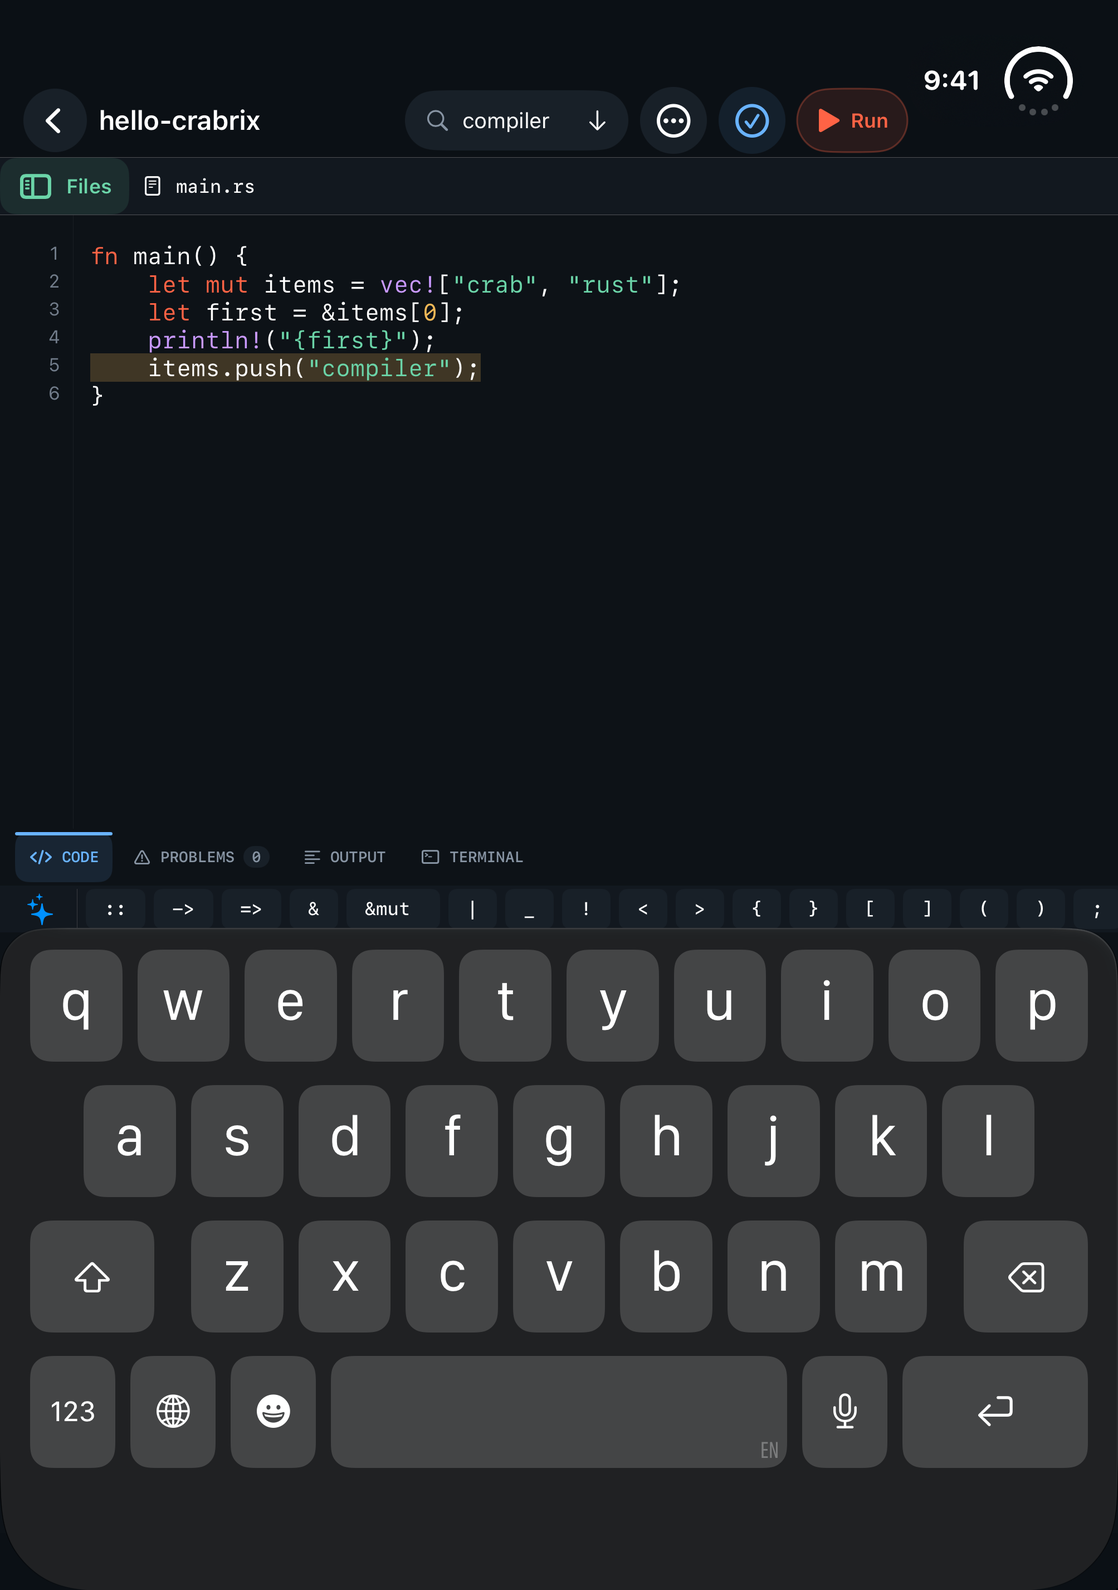
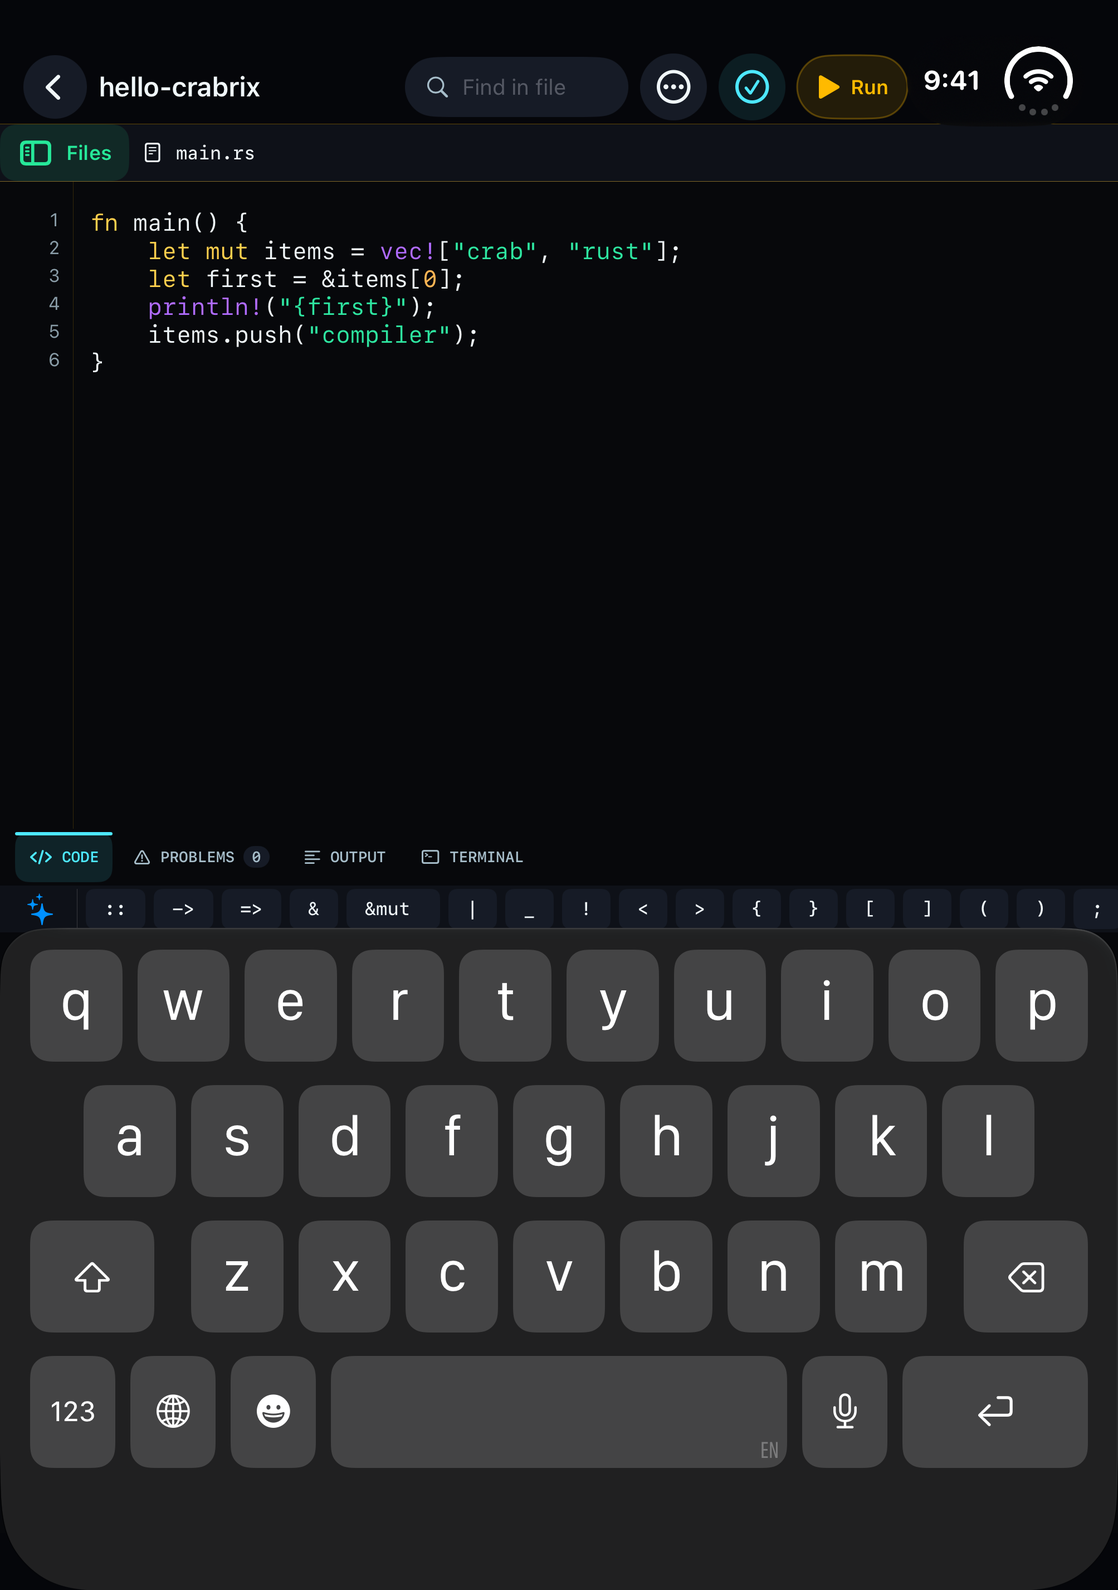
Polish Duo workspace layout and refresh site capture

diff --git a/Crabrix/UI/ContentView.swift b/Crabrix/UI/ContentView.swift
@@ -105,7 +105,7 @@ struct ContentView: View {
     @State private var isDiagnosticHelpPresented = false
     @State private var selectedBuildDockTab: BuildDockTab =
         ProcessInfo.processInfo.arguments.contains("--crabrix-auto-terminal") ? .terminal : .code
-    @State private var tabletopFoldGlobalY: CGFloat?
+    @State private var tabletopTabsGlobalY: CGFloat?
     @State private var learningPath: [LearningRoute] = []
     @State private var editorCursorOffset = 0
     /// What the last successful run was scored on, shown in the build dock.
@@ -128,7 +128,7 @@ struct ContentView: View {
     var body: some View {
         GeometryReader { geometry in
             let tabletop = AdaptiveFold.horizontal(in: geometry) != nil
-                || tabletopFoldGlobalY != nil
+                || tabletopTabsGlobalY != nil
             tabContent(tabletop: tabletop)
                 .toolbar(tabletop && isWorkspaceOpen ? .hidden : .visible, for: .tabBar)
         }
@@ -142,7 +142,7 @@ struct ContentView: View {
                         .toolbar(tabletop ? .hidden : .visible, for: .tabBar)
                         .ignoresSafeArea(tabletop ? .container : [], edges: .top)
                         .ignoresSafeArea(
-                            tabletopFoldGlobalY == nil ? [] : .keyboard,
+                            tabletopTabsGlobalY == nil ? [] : .keyboard,
                             edges: .bottom
                         )
                 } else {
@@ -617,7 +617,7 @@ struct ContentView: View {
                 selectedFile: model.selectedFile,
                 isProjectSidebarCollapsed: fixedSidebar ? false : !isCompactProjectDrawerPresented,
                 showsProjectSidebarToggle: !fixedSidebar,
-                showsEnvironmentBar: tabletopFoldGlobalY == nil,
+                showsEnvironmentBar: tabletopTabsGlobalY == nil,
                 onSelectFile: selectEditorFile,
                 onToggleProjectSidebar: {
                     if fixedSidebar {
@@ -675,12 +675,12 @@ struct ContentView: View {
                 navigationTarget: editorNavigationTarget,
                 assistantUsesAppleIntelligence: appleIntelligenceCompletion
                     && RustCompletionSupport.isAppleIntelligenceAvailable,
-                tabletopCodeTabActive: tabletopFoldGlobalY == nil
+                tabletopCodeTabActive: tabletopTabsGlobalY == nil
                     ? nil : selectedBuildDockTab == .code,
                 keyboardBridge: editorKeyboard,
                 onRequestCompletion: requestEditorAssistant,
                 onEditorFocus: {
-                    if tabletopFoldGlobalY != nil {
+                    if tabletopTabsGlobalY != nil {
                         selectedBuildDockTab = .code
                     }
                 }
@@ -734,8 +734,8 @@ struct ContentView: View {
                 AppHeader(
                     isPhone: UIDevice.current.userInterfaceIdiom == .phone,
                     regularTablet: horizontalSizeClass == .regular && UIDevice.current.userInterfaceIdiom != .phone,
-                    dense: tabletopFold != nil || tabletopFoldGlobalY != nil,
-                    showsTopNavigation: tabletopFold != nil || tabletopFoldGlobalY != nil,
+                    dense: tabletopFold != nil || tabletopTabsGlobalY != nil,
+                    showsTopNavigation: tabletopFold != nil || tabletopTabsGlobalY != nil,
                     headerWidth: workspace.size.width,
                     projectName: model.projectName,
                     searchQuery: $editorSearchQuery,
@@ -759,9 +759,11 @@ struct ContentView: View {
                 if model.projectTransfer.isWorking || model.projectTransfer.isFailure {
                     ProjectTransferStrip(transfer: model.projectTransfer)
                 }
-                Divider().overlay(CrabrixTheme.border)
+                Rectangle()
+                    .fill(CrabrixTheme.border)
+                    .frame(height: 1 / UIScreen.main.scale)
 
-                if fixedSidebar && tabletopFold == nil && tabletopFoldGlobalY == nil {
+                if fixedSidebar && tabletopFold == nil && tabletopTabsGlobalY == nil {
                     HStack(spacing: 0) {
                         ProjectSidebar(
                                 projectName: model.projectName,
@@ -820,15 +822,24 @@ struct ContentView: View {
                             .frame(minWidth: bookFold == nil ? 340 : 0)
                     }
                 } else {
-                    compactBuildWorkspace(tabletopFoldGlobalY: tabletopFoldGlobalY)
+                    compactBuildWorkspace(tabletopTabsGlobalY: tabletopTabsGlobalY)
                 }
             }
-            // Tabletop has its own tall status region. Reclaim part of the
-            // unused gap while keeping the controls below the status glyphs.
-            .padding(.top, tabletopFold == nil ? 0 : 50)
+            // Keep the workspace toolbar level with the native My Projects
+            // navigation bar; the status glyphs remain in the trailing space.
+            .padding(.top, tabletopFold == nil ? 0 : 30)
+            .background(CrabrixTheme.background)
         }
-        .onPreferenceChange(TabletopFoldGlobalYPreferenceKey.self) { globalY in
-            tabletopFoldGlobalY = globalY
+        .onPreferenceChange(TabletopTabsGlobalYPreferenceKey.self) { globalY in
+            let enteringTabletop = tabletopTabsGlobalY == nil && globalY != nil
+            tabletopTabsGlobalY = globalY
+            if enteringTabletop && selectedBuildDockTab == .code {
+                DispatchQueue.main.asyncAfter(deadline: .now() + 0.2) {
+                    if selectedBuildDockTab == .code {
+                        editorKeyboard.focusEditor()
+                    }
+                }
+            }
         }
         }
     }
@@ -843,11 +854,11 @@ struct ContentView: View {
         }
     }
 
-    private func compactBuildWorkspace(tabletopFoldGlobalY: CGFloat?) -> some View {
+    private func compactBuildWorkspace(tabletopTabsGlobalY: CGFloat?) -> some View {
         GeometryReader { geometry in
-            // In tabletop pose the lower display is the typing and output
-            // surface. Keep the file drawer on the upper display only.
-            let drawerHeight = tabletopFoldGlobalY.map {
+            // In tabletop pose the drawer fills the upper display down to the
+            // Code, Problems, Output and Terminal tabs, without a dead strip.
+            let drawerHeight = tabletopTabsGlobalY.map {
                 max(160, min($0 - geometry.frame(in: .global).minY, geometry.size.height))
             } ?? geometry.size.height
             ZStack(alignment: .topLeading) {
@@ -1220,7 +1231,7 @@ private struct AppHeader: View {
                     Image(systemName: "chevron.left")
                         .font(.system(size: 17, weight: .semibold))
                         .frame(width: 38, height: 38)
-                        .background(CrabrixTheme.raised, in: CrabrixControlShape(classic: .circle))
+                        .background(CrabrixTheme.raised, in: Circle())
                 }
                 .buttonStyle(.plain)
                 .accessibilityLabel("Back to Projects")
@@ -1319,7 +1330,7 @@ private struct AppHeader: View {
         // The status glyphs share the header row in laptop posture.
         .padding(.trailing, showsTopNavigation ? 112 : 0)
         .frame(height: dense ? 44 : 58)
-        .background(CrabrixTheme.background.opacity(0.97))
+        .background(CrabrixTheme.background)
     }
 
     private var tabletopProjectMenu: some View {
@@ -1331,7 +1342,7 @@ private struct AppHeader: View {
                 .font(.system(size: 20, weight: .medium))
                 .foregroundStyle(CrabrixTheme.primary)
                 .frame(width: 40, height: 40)
-                .background(CrabrixTheme.raised, in: CrabrixControlShape(classic: .circle))
+                .background(CrabrixTheme.raised, in: Circle())
         }
         .disabled(transfer.isWorking)
         .accessibilityLabel("Project menu")
@@ -1343,7 +1354,14 @@ private struct AppHeader: View {
                 .font(.system(size: 20, weight: .medium))
                 .foregroundStyle(CrabrixTheme.blue)
                 .frame(width: 40, height: 40)
-                .background(CrabrixTheme.blue.opacity(0.1), in: CrabrixControlShape(classic: .capsule))
+                .background {
+                    if showsTopNavigation {
+                        Circle().fill(CrabrixTheme.blue.opacity(0.1))
+                    } else {
+                        CrabrixControlShape(classic: .capsule)
+                            .fill(CrabrixTheme.blue.opacity(0.1))
+                    }
+                }
         }
         .buttonStyle(.plain)
         .disabled(activity != .idle || !canRun)
@@ -1366,10 +1384,21 @@ private struct AppHeader: View {
             .foregroundStyle(CrabrixTheme.coral)
             .padding(.horizontal, 11)
             .frame(minHeight: 38)
-            .background(CrabrixTheme.coral.opacity(0.12), in: CrabrixControlShape(classic: .capsule))
+            .background {
+                if showsTopNavigation {
+                    Capsule().fill(CrabrixTheme.coral.opacity(0.12))
+                } else {
+                    CrabrixControlShape(classic: .capsule)
+                        .fill(CrabrixTheme.coral.opacity(0.12))
+                }
+            }
             .overlay {
-                CrabrixControlShape(classic: .capsule)
-                    .stroke(CrabrixTheme.coral.opacity(0.3))
+                if showsTopNavigation {
+                    Capsule().stroke(CrabrixTheme.coral.opacity(0.3))
+                } else {
+                    CrabrixControlShape(classic: .capsule)
+                        .stroke(CrabrixTheme.coral.opacity(0.3))
+                }
             }
         }
         .buttonStyle(.plain)

diff --git a/Crabrix/UI/BuildDockView.swift b/Crabrix/UI/BuildDockView.swift
@@ -139,6 +139,7 @@ struct BuildDockView<CodeContent: View>: View {
                             usesAppleIntelligence: assistantUsesAppleIntelligence,
                             onComplete: onRequestCompletion
                         )
+                        .padding(.bottom, 6)
                         Spacer(minLength: 0)
                     } else if selectedTab == .terminal {
                         Spacer(minLength: 0)
@@ -154,8 +155,8 @@ struct BuildDockView<CodeContent: View>: View {
             .background(CrabrixTheme.editor)
             .frame(maxWidth: .infinity, maxHeight: .infinity)
             .preference(
-                key: TabletopFoldGlobalYPreferenceKey.self,
-                value: fold.map { geometry.frame(in: .global).minY + $0.minY }
+                key: TabletopTabsGlobalYPreferenceKey.self,
+                value: fold.map { geometry.frame(in: .global).minY + $0.maxY - (selectedTab == .terminal ? 34 : 0) }
             )
         }
         .frame(maxWidth: .infinity, maxHeight: .infinity)
@@ -167,8 +168,13 @@ struct BuildDockView<CodeContent: View>: View {
         return HStack(spacing: 4) {
             ForEach(tabs) { tab in
                 Button {
-                    if tab != .code { keyboardBridge.dismissKeyboard() }
+                    if tab == .problems || tab == .output {
+                        keyboardBridge.dismissKeyboard()
+                    }
                     selectedTab = tab
+                    if tab == .code {
+                        keyboardBridge.focusEditor()
+                    }
                 } label: {
                     HStack(spacing: 5) {
                         Image(systemName: tab.systemImage)
@@ -308,6 +314,7 @@ private struct ProblemsDockContent: View {
     let onOpenDiagnosticAdvisor: () -> Void
 
     var body: some View {
+        GeometryReader { available in
         ScrollView {
             if let diagnostics = result?.diagnostics, !diagnostics.isEmpty {
                 LazyVStack(alignment: .leading, spacing: 7) {
@@ -388,7 +395,10 @@ private struct ProblemsDockContent: View {
                     description: Text("Compiler diagnostics for the current snapshot appear here.")
                 )
                 .foregroundStyle(CrabrixTheme.muted)
+                .frame(maxWidth: .infinity)
+                .frame(minHeight: available.size.height)
             }
+        }
         }
         .font(.system(size: 11, design: .monospaced))
         .frame(maxWidth: .infinity, maxHeight: .infinity)
@@ -443,6 +453,7 @@ private struct OutputDockContent: View {
     }
 
     var body: some View {
+        GeometryReader { available in
         ScrollView {
             if let result {
                 VStack(alignment: .leading, spacing: 12) {
@@ -549,8 +560,9 @@ private struct OutputDockContent: View {
                 }
                 .frame(maxWidth: .infinity)
                 .padding(.horizontal, 24)
-                .padding(.vertical, 40)
+                .frame(minHeight: available.size.height)
             }
+        }
         }
         .font(.system(size: 11, design: .monospaced))
         .frame(maxWidth: .infinity, maxHeight: .infinity)

diff --git a/Crabrix/Editor/SyntaxCodeEditor.swift b/Crabrix/Editor/SyntaxCodeEditor.swift
@@ -5,9 +5,11 @@ import UIKit
 final class RustEditorKeyboardBridge: ObservableObject {
     var insert: ((String) -> Void)?
     var dismiss: (() -> Void)?
+    var focus: (() -> Void)?
 
     func insertSymbol(_ symbol: String) { insert?(symbol) }
     func dismissKeyboard() { dismiss?() }
+    func focusEditor() { focus?() }
 }
 
 struct RustSmartNewlineEdit: Equatable {
@@ -219,6 +221,9 @@ struct SyntaxCodeEditor: UIViewRepresentable {
         keyboardBridge?.dismiss = { [weak textView] in
             textView?.resignFirstResponder()
         }
+        keyboardBridge?.focus = { [weak textView] in
+            textView?.becomeFirstResponder()
+        }
         canvas.setTabletopCodeTabActive(tabletopCodeTabActive)
         context.coordinator.applyHighlighting(to: textView, filePath: filePath)
         return canvas
@@ -235,6 +240,9 @@ struct SyntaxCodeEditor: UIViewRepresentable {
         }
         keyboardBridge?.dismiss = { [weak textView] in
             textView?.resignFirstResponder()
+        }
+        keyboardBridge?.focus = { [weak textView] in
+            textView?.becomeFirstResponder()
         }
         textView.isEditable = isEditable
         canvas.backgroundColor = UIColor(CrabrixTheme.editor)

diff --git a/Crabrix/UI/AdaptiveFold.swift b/Crabrix/UI/AdaptiveFold.swift
@@ -27,9 +27,9 @@ enum AdaptiveFold {
     }
 }
 
-/// The editor dock is the first view that sees the fold. Share its global Y
-/// coordinate so overlays outside the dock can stop at the same hinge.
-struct TabletopFoldGlobalYPreferenceKey: PreferenceKey {
+/// The editor dock is the first view that sees the fold. Share the global Y
+/// coordinate of its tabletop tab row so drawers stop directly above it.
+struct TabletopTabsGlobalYPreferenceKey: PreferenceKey {
     static let defaultValue: CGFloat? = nil
 
     static func reduce(value: inout CGFloat?, nextValue: () -> CGFloat?) {

diff --git a/README.md b/README.md
@@ -20,7 +20,7 @@ Open **Learn**, choose a course to download, and read it offline. Open a lesson 
 
 **Projects** opens a short entry screen. **My Projects** opens the project manager; GitHub and Files imports live under **New Project**. The editor stays inside Projects, with Projects, Learn, and Settings available while editing or reading lessons. On iPhone, these primary tabs remain at the bottom. In Duo laptop posture, the workspace header shows the project name and in-file search, while Code, Problems, Output, and Terminal sit above the keyboard. The workspace opens on **Code** and returns to Code when you select another file. Each folder's add menu creates nested Rust files, text files, or module folders. Project dependencies stay with that project. Settings offer Auto, Light, Dark, and a global Cyberpunk appearance, plus optional Face ID or device-passcode app protection. Rating and achievements are earned locally and are available from a lesson header. Profile offers an **off-by-default Game Center** switch for Apple's global rating leaderboard and all 37 achievement ladders (plus ten earlier individual milestones); turning it off keeps all local progress. Health and Energy are no longer part of learning or practice.
 
-The Academy contains seven courses: six Rust language courses and Algorithm Atlas. The signed baseline contains **742 lessons** (142 Rust lessons and 600 Atlas steps), **200 Atlas challenges**, source projects, questions, answers, depth material, and 358 term pairs. All 742 lessons and steps are included in the [new free Learn site](site/README.md), prepared for deployment; the app adds offline study, editable projects, local compilation, practice, and progress. **Code Examples** is a separate optional download in Learn with 46 editable Rust projects. All 46 stops are open: each shows its project-specific guide, selected local infographics, and a real source preview, with **Open in Code** to create a durable copy in My Projects. Every project has its own README and retains its source pack identity. Example Rust sources live in the signed Examples CoursePack, outside the compiled app code. A fresh install offers each course and Examples for individual download; none is installed automatically. Existing learners keep their migrated offline courses and can still open the older gallery from an installed Projects pack. Learn shows installed courses, a Code Examples card, practice, and remaining downloads with their sizes. Tap an installed card to open it; swipe left or use its options menu to remove downloaded material after confirmation. Removing material keeps projects and progress. Inside a course, Reset course progress restarts its lessons and answers while keeping projects and earned rewards. Course sources, build tools, manifests, and release archives are public in [crabrix-courses](https://github.com/sergii-ziborov/crabrix-courses). The course text and media have their own [content terms](https://github.com/sergii-ziborov/crabrix-courses/blob/main/CONTENT-LICENSE.md).
+The Academy contains seven courses: six Rust language courses and Algorithm Atlas. The signed baseline contains **742 lessons** (142 Rust lessons and 600 Atlas steps), **200 Atlas challenges**, source projects, questions, answers, depth material, and 358 term pairs. All 742 lessons and steps are included in the [new free Learn site](site/README.md), running on a private Hetzner endpoint while public routing is pending; the app adds offline study, editable projects, local compilation, practice, and progress. **Code Examples** is a separate optional download in Learn with 46 editable Rust projects. All 46 stops are open: each shows its project-specific guide, selected local infographics, and a real source preview, with **Open in Code** to create a durable copy in My Projects. Every project has its own README and retains its source pack identity. Example Rust sources live in the signed Examples CoursePack, outside the compiled app code. A fresh install offers each course and Examples for individual download; none is installed automatically. Existing learners keep their migrated offline courses and can still open the older gallery from an installed Projects pack. Learn shows installed courses, a Code Examples card, practice, and remaining downloads with their sizes. Tap an installed card to open it; swipe left or use its options menu to remove downloaded material after confirmation. Removing material keeps projects and progress. Inside a course, Reset course progress restarts its lessons and answers while keeping projects and earned rewards. Course sources, build tools, manifests, and release archives are public in [crabrix-courses](https://github.com/sergii-ziborov/crabrix-courses). The course text and media have their own [content terms](https://github.com/sergii-ziborov/crabrix-courses/blob/main/CONTENT-LICENSE.md).
 
 For Cargo projects, Crabrix resolves a supported subset of crates.io dependencies, verifies registry checksums, builds dependencies locally, and can pin their source archives for offline rebuilds. `syn`, `quote`, and `proc-macro2` use a parser-only feature profile that works with the bundled WASI compiler; an existing plain `syn` dependency can be repaired from the project package panel. Procedural macro crates and build scripts remain unsupported. An installed course is readable offline; an exercise using crates is offline ready only after its dependencies have been prepared. The editor, diagnostics, Code Examples path, import/export, and training activities remain native UI.
 

diff --git a/docs/site-deploy.md b/docs/site-deploy.md
@@ -8,9 +8,10 @@ responsive spacing, Blog, all seven free Learn courses and 742 lesson pages,
 and screenshots captured from the current app. It has passed a local build and
 link check, but has not replaced the public site.
 
-The prepared Hetzner service is independent of GrantTap. It listens on
-`127.0.0.1:3212` by default and does not create a public route or alter domain
-records. No public hosting switch is part of this repository change.
+On 8 October, the isolated `crabrix-web-site-1` container was deployed to the
+GrantTap Hetzner host from this branch. It listens on `127.0.0.1:3212`.
+Health, Learn, Blog and the Duo screenshot returned HTTP 200 on that internal
+endpoint. The GrantTap stack, public routing and domain records were unchanged.
 
 ## Build locally
 
@@ -27,16 +28,16 @@ supplies the common header and footer. `site/content/courses.json` is a pinned
 snapshot from the course repository; `site/README.md` explains how to refresh
 it.
 
-## Prepare the isolated Hetzner service
+## Rebuild the isolated Hetzner service
 
 On the server, after checking out the desired commit into a separate Crabrix
 directory:
 
 ```bash
 cd site
-docker compose -f compose.hetzner.yaml config
-docker compose -f compose.hetzner.yaml build
-docker compose -f compose.hetzner.yaml up -d
+podman compose -f compose.hetzner.yaml config
+podman compose -f compose.hetzner.yaml build
+podman compose -f compose.hetzner.yaml up -d
 curl --fail http://127.0.0.1:3212/healthz
 curl --fail http://127.0.0.1:3212/learn/
 ```

diff --git a/site/README.md b/site/README.md
@@ -23,8 +23,7 @@ pnpm build
 top-level HTML files is rendered through `lib/legacy.ts`; the Next layout supplies
 their common navigation and spacing. Product captures are in `public/screenshots/`.
 
-The Hetzner deployment is prepared in `compose.hetzner.yaml` and
+The site runs as its own Hetzner container from `compose.hetzner.yaml` and
 `hetzner/Dockerfile`, following the separate-service pattern used by GrantTap.
-It binds only to loopback on port 3212 by default. A future deployment needs a
-server route and certificate for Crabrix; this repository change does not alter
-the current Lovable site or any domain records.
+It binds only to loopback on port 3212. Public access needs a Crabrix server
+route and certificate; the current Lovable site and domain records are unchanged.
